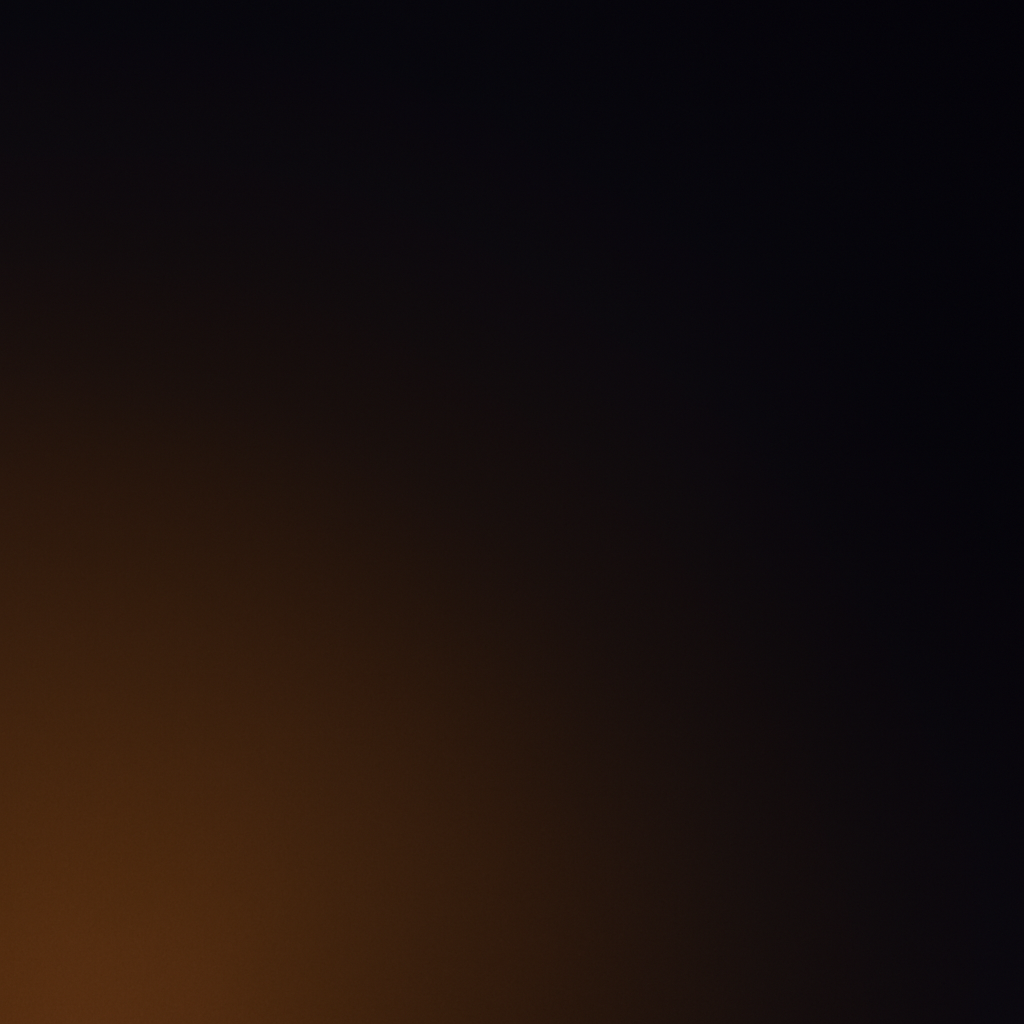
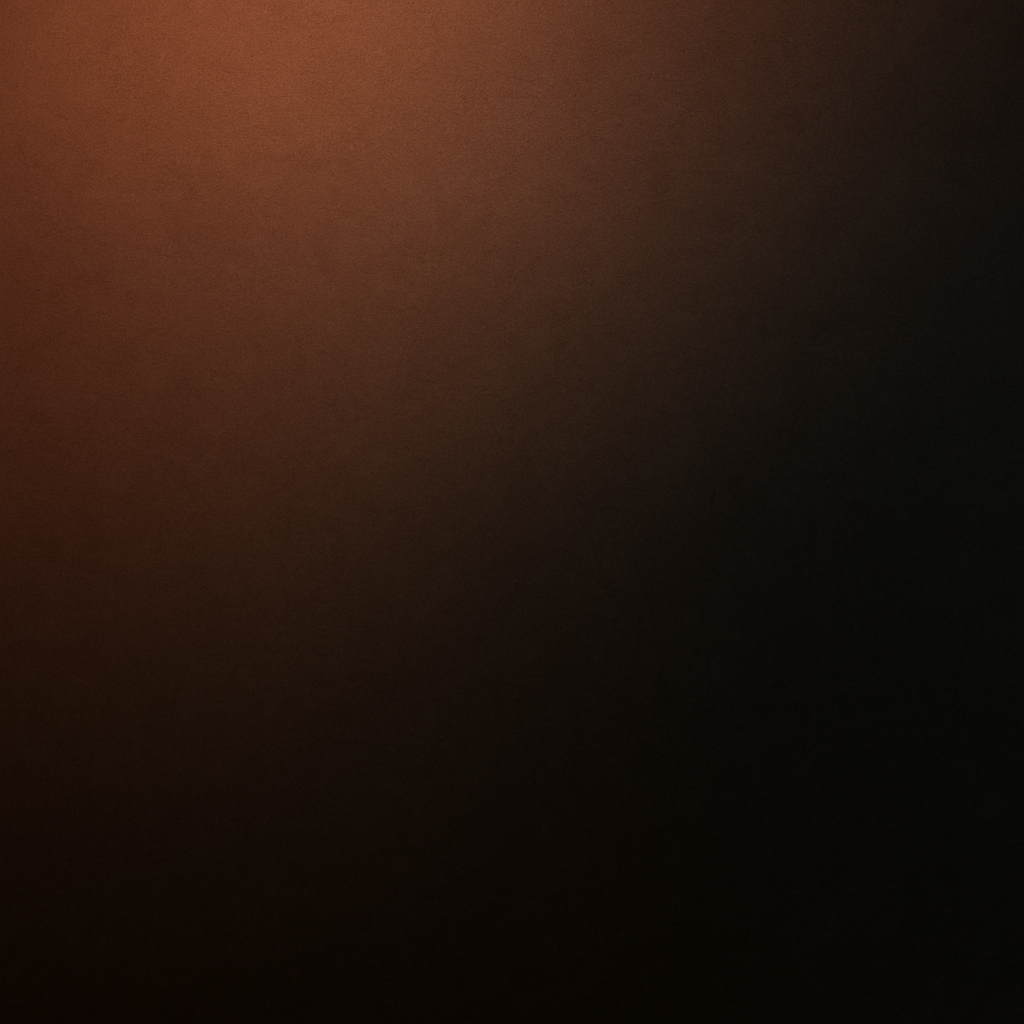
Polishing UI.

diff --git a/competition.html b/competition.html
@@ -69,7 +69,7 @@ Donate to remove backlink form the site
 <!--    <div class="heading">-->
 <!--      <h2 class="animated fadeInUp">✨ <span style="color:#FFD500;">Wuji (无极)</span> &#45;&#45; <span style="color:#ccc;">Infinity ♾</span></h2>-->
 <h5 class="lead animated fadeIn"
-    style="font-size: 1.6rem; font-weight: 700; color: #fff;
+    style="font-size: 1.8rem; font-weight: 700; color: #fff;
            text-shadow: 0 0 6px rgba(255,255,255,0.6), 0 0 12px rgba(255,255,255,0.4);
            margin-top: 10px;">
   🎯 3 Tracks &nbsp;|&nbsp; 🏆 <strong>13 Awards</strong> &nbsp;|&nbsp; 💰 <strong>$15,000 in Prizes</strong> &nbsp;|&nbsp; 🌐 Embracing Infinity, Exploring the Limits of Vision 🚀
@@ -241,137 +241,132 @@ Donate to remove backlink form the site
     </div>
   </div>
 </section>
-<section id="rules" class="page-section" style="background:  rgb(1,22,39, 0.1); padding: 60px 20px;">
-  <div class="container">
+<section id="rules" class="page-section" style="background: rgb(1,22,39, 0.1); padding: 60px 10px;">
+  <div class="container" style="max-width: 1400px;">
+    <h2 class="text-center animated fadeInUp" style="color:#fff; font-size: 2.8rem; font-weight: 700; letter-spacing: 0.5px;">📈 Scoring Rules</h2>
+    <p class="text-center lead" style="color: #E0E3DA; font-size: 2.0rem; margin-top: 10px; font-weight: 500">Each track will be evaluated by a mix of automated metrics and expert reviews</p>
 
-    <h2 class="text-center animated fadeInUp">📊 Scoring Rules</h2>
-    <p style="color: #eee; font-size: 20px; margin-top: 6px;" class="text-center lead">Each track will be evaluated by a mix of automated metrics and expert reviews:</p>
+    <!-- Rule Box Wrapper -->
+    <div style="background: linear-gradient(135deg, rgba(255,255,255,0.05), rgba(255,255,255,0.015)); padding: 40px 35px; border-radius: 20px; margin-top: 20px; box-shadow: 0 0 20px rgba(255, 255, 255, 0.08); transition: all 0.3s ease-in-out;">
 
-  </div>
-  <head>
-    <style>
-        .ranking-container {
-            max-width: 800px;
-            margin: 20px auto;
-            padding: 20px;
-            font-family: Arial, sans-serif;
-        }
-        table {
-            width: 100%;
-            border-collapse: collapse;
-            margin: 20px 0;
-        }
-        th, td {
-            padding: 12px;
-            border: 1px solid #ddd;
-            text-align: center;
-        }
-        thead {
-            background-color: #333;
-        }
-        tr:nth-child(even) {
-            background-color: #333;
-        }
-        .math {
-            font-size: 1.1em;
-            margin: 15px 0;
-        }
-    </style>
-</head>
-<body>
-    <div  style="color: #eee; font-size: 18px; margin-top: 6px;"  class="ranking-container">
-        <h2>Track 1 Texture Resoration</h2>
-        <ul>
-          <li>Reward participants based on their best-performing solutions</li>
-          <li>For each task, multiple metrics will be announced, including reference-based and no-reference-based metrics</li>
-          <li>Participants' rankings on each metric will be weightedly summed, the weights of each metric will be announced later</li>
-          <li>The final ranking of participants in their task will be determined by the ascending order of these weighted sums</li>
-          <li>Suppose E<sub>1</sub>, E<sub>2</sub>,..., E<sub>N</sub> are ranks that have been sorted from the smallest value to the largest value. The final score is:
-            <div class="math">
-              G = Σ<sub>i=1</sub><sup>N</sup> ω<sub>i</sub>·S(E<sub>i</sub>)
-            </div>
-            The ω<sub>i</sub> and S(E<sub>i</sub>) for different i are as follows:
+      <!-- Track 1 -->
+      <div class="track1" style="margin-bottom: 30px;">
+        <h3 style="color: #fff; font-size: 2rem; margin-bottom: 20px; font-weight: 800; display: flex; align-items: center; gap: 12px;">
+          <img src="./assets_wuji/images/track1_logo.png" style="height: 28px;"> Track 1: Texture Restoration
+        </h3>
+        <ul style="color: #ddd; font-size: 1.8rem; margin-left: 22px; line-height: 1.9;">
+          <li>Reward participants based on their best-performing solutions.</li>
+          <li>For each task, multiple metrics will be announced, including reference-based and no-reference-based metrics.</li>
+          <li>Participants' rankings on each metric will be weighted; the weights will be announced later.</li>
+          <li>The final ranking is determined by the ascending order of weighted sums. Suppose E<sub>1</sub>, E<sub>2</sub>, ..., E<sub>N</sub> are ranks sorted from smallest to largest. The final score is:
+            <span class="math" style="font-size: 1.8rem; font-weight: bold; color: #ffd86b;">G = Σ<sub>i=1</sub><sup>N</sup> ω<sub>i</sub>·S(E<sub>i</sub>)</span>
           </li>
         </ul>
-        
-        <table>
-            <thead>
-                <tr>
-                    <th>Index  i</th>
-                    <th>Weights  ω<sub>i</sub></th>
-                    <th>Sorted Rank  E<sub>i</sub></th>
-                    <th>Score  S(E<sub>i</sub>)</th>
-                </tr>
+        <div class="table-responsive" style="max-width: 900px; margin: 16px auto 0;">
+          <table style="width: 100%; border-collapse: separate; border-spacing: 0; font-size: 1.8rem; color: #eee; border: 2px solid #555; border-radius: 10px; overflow: hidden;">
+            <thead style="background-color: #2b2b2b;">
+              <tr>
+                  <th style="background-color: #1e1e1e; color: #ffc107; padding: 14px; font-size: 1.8rem; width: 220px; border-right: 2px double #444;">Sorted Rank E<sub>i</sub></th>
+                  <td style="padding: 12px; border-right: 2px double #444;">1</td>
+                  <td style="padding: 12px; border-right: 2px double #444;">2</td>
+                  <td style="padding: 12px; border-right: 2px double #444;">3</td>
+                  <td style="padding: 12px; border-right: 2px double #444;">4</td>
+                  <td style="padding: 12px; border-right: 2px double #444;">5</td>
+                  <td style="padding: 12px; border-right: 2px double #444;">6</td>
+                                   <td style="padding: 12px;">7+</td>
+              </tr>
             </thead>
             <tbody>
-                <tr><td>1</td><td>0.6</td><td>1</td><td>5</td></tr>
-                <tr><td>2</td><td>0.3</td><td>2</td><td>4</td></tr>
-                <tr><td>3</td><td>0.1</td><td>3</td><td>3</td></tr>
-                <tr><td>4</td><td>0.1</td><td>4</td><td>2</td></tr>
-                <tr><td>5</td><td>0.1</td><td>5</td><td>1</td></tr>
-                <tr><td>--</td><td>--</td><td>6+</td><td>0</td></tr>
+              <tr style="background-color: #111;">
+                <th style="background-color: #1e1e1e; color: #ffc107; padding: 14px; font-size: 1.8rem; border-top: 2px double #444; border-right: 2px double #444;">Score S(E<sub>i</sub>)</th>
+                <td style="padding: 12px; border-top: 2px double #444; border-right: 2px double #444;">5</td>
+                <td style="padding: 12px; border-top: 2px double #444; border-right: 2px double #444;">4</td>
+                <td style="padding: 12px; border-top: 2px double #444; border-right: 2px double #444;">3</td>
+                <td style="padding: 12px; border-top: 2px double #444; border-right: 2px double #444;">2</td>
+                <td style="padding: 12px; border-top: 2px double #444; border-right: 2px double #444;">1</td>
+                  <td style="padding: 12px; border-top: 2px double #444; border-right: 2px double #444;">1</td>
+                <td style="padding: 12px; border-top: 2px double #444;">0</td>
+              </tr>
             </tbody>
-        </table>
+          </table>
+        </div>
+      </div>
 
-        <h2>Tracks 2 Dataset & Benchmark</h2>
-        <ul>
-          <li>A weighted ranking rule based on expert review scores for the contribution of dataset</li>
-          <li>Datasets that demonstrate strong generalization performance on real-world data are highly recommended</li>
-        </ul>
-        
-        <h2>Tracks 3 Open-Spike Research</h2>
-        <ul>
-          <li>A weighted ranking rule based on expert review scores for the innovation of research proposals</li>
-          <li>Proposals that can inspire spike vision to explore broader application scenarios and further stimulate the development of subsequent tasks are highly recommended</li>
-        </ul>
+      <!-- Divider -->
+      <hr style="border-top: 2px solid rgba(255,255,255,0.2); margin: 40px 0;">
+
+      <!-- Track 2 & Track 3 -->
+      <div class="row" style="gap: 20px;">
+        <div class="col-md-6" style="padding: 0 20px;">
+          <h3 style="color: #fff; font-size: 2rem; margin-bottom: 20px; font-weight: 800; display: flex; align-items: center; gap: 12px;">
+            <img src="./assets_wuji/images/track2_logo.png" style="height: 26px;"> Track 2: Dataset & Benchmark
+          </h3>
+          <ul style="color: #ddd; font-size: 1.8rem; margin-left: 22px; line-height: 1.9;">
+            <li>A weighted ranking rule based on expert review scores for dataset contribution.</li>
+            <li>Datasets demonstrating strong generalization on real-world data are highly recommended.</li>
+          </ul>
+        </div>
+        <div class="col-md-6" style="padding: 0 20px;">
+          <h3 style="color: #fff; font-size: 2rem; margin-bottom: 20px; font-weight: 800; display: flex; align-items: center; gap: 12px;">
+            <img src="./assets_wuji/images/track3_logo.png" style="height: 26px;"> Track 3: Open-Spike Research
+          </h3>
+          <ul style="color: #ddd; font-size: 1.8rem; margin-left: 22px; line-height: 1.9;">
+            <li>A weighted ranking rule based on expert scores for research innovation.</li>
+            <li>Proposals that inspire spike vision to explore new applications and stimulate future tasks are highly recommended.</li>
+          </ul>
+        </div>
+      </div>
+
     </div>
-</body>
+  </div>
 </section>
 
 <section id="aboutUs" class="page-section" style="background:  rgb(1,22,39, 0.1);">
-  <div class="container text-center">
-    <h2 class="animated fadeInUp">Organizers</h2>
-    <div class="row" style="margin-top: 40px;">
-      <div class="col-md-3 col-sm-6">
-        <img src="./assets_wuji/images/organizers/yjzheng2.jpeg" class="img-circle" alt="Organizer 1">
-         <h4 style="margin-top: 15px; font-weight: 600;">Dr. Yajing Zheng</h4>
-        <p>Peking University </p>
-        <div class="organizer-links">
-          <a href="https://zyj061.github.io" target="_blank" title="Homepage"><i class="fa fa-home"></i></a>
-          <a href="https://scholar.google.com/citations?user=_bUM0NcAAAAJ&hl=en" target="_blank" title="Google Scholar"><i class="fa fa-graduation-cap"></i></a>
-          <a href="mailto:yj.zheng@pku.edu.cn" title="Email"><i class="fa fa-envelope"></i></a>
-          <a href="https://github.com/zyj061" target="_blank" title="GitHub"><i class="fa fa-github"></i></a>
+  <div class="container text-center" style="max-width: 1400px;">
+    <div style="background: linear-gradient(135deg, rgba(255,255,255,0.05), rgba(255,255,255,0.015)); padding: 20px 30px; border-radius: 20px; margin-top: 10px; box-shadow: 0 0 18px rgba(255, 255, 255, 0.06);">
+      <h2 class="animated fadeInUp" style="color: #fff; font-weight: 800; font-size: 2.8rem; margin-bottom: 50px;">🧑🏫🧑💻 Organizers</h2>
+      <div class="row" style="margin-top: 20px;">
+        <div class="col-md-3 col-sm-6">
+          <img src="./assets_wuji/images/organizers/yjzheng2.jpeg" class="img-circle" alt="Organizer 1">
+          <h4 style="margin-top: 15px; font-weight: 600; color: #fff;">Dr. Yajing Zheng</h4>
+          <p style="font-weight: bold; color: #ffd86b;">Peking University</p>
+          <div class="organizer-links">
+            <a href="https://zyj061.github.io" target="_blank" title="Homepage"><i class="fa fa-home"></i></a>
+            <a href="https://scholar.google.com/citations?user=_bUM0NcAAAAJ&hl=en" target="_blank" title="Google Scholar"><i class="fa fa-graduation-cap"></i></a>
+            <a href="mailto:yj.zheng@pku.edu.cn" title="Email"><i class="fa fa-envelope"></i></a>
+            <a href="https://github.com/zyj061" target="_blank" title="GitHub"><i class="fa fa-github"></i></a>
+          </div>
         </div>
-      </div>
-      <div class="col-md-3 col-sm-6">
-        <img src="./assets_wuji/images/organizers/htj.jpeg" class="img-circle" alt="Organizer 2">
-         <h4 style="margin-top: 15px; font-weight: 600;">Prof. Tiejun Huang</h4>
-        <p>Peking University</p>
-        <div class="organizer-links">
-          <a href="https://cs.pku.edu.cn/info/1215/1980.htm" target="_blank" title="Homepage"><i class="fa fa-home"></i></a>
-          <a href="https://scholar.google.com/citations?user=knvEK4AAAAAJ&hl=zh-CN&oi=ao" target="_blank" title="Google Scholar"><i class="fa fa-graduation-cap"></i></a>
-          <a href="mailto:tjhuang@pku.edu.cn" title="Email"><i class="fa fa-envelope"></i></a>
+        <div class="col-md-3 col-sm-6">
+          <img src="./assets_wuji/images/organizers/htj.jpeg" class="img-circle" alt="Organizer 2">
+          <h4 style="margin-top: 15px; font-weight: 600; color: #fff;">Prof. Tiejun Huang</h4>
+          <p style="font-weight: bold; color: #ffd86b;">Peking University</p>
+          <div class="organizer-links">
+            <a href="https://cs.pku.edu.cn/info/1215/1980.htm" target="_blank" title="Homepage"><i class="fa fa-home"></i></a>
+            <a href="https://scholar.google.com/citations?user=knvEK4AAAAAJ&hl=zh-CN&oi=ao" target="_blank" title="Google Scholar"><i class="fa fa-graduation-cap"></i></a>
+            <a href="mailto:tjhuang@pku.edu.cn" title="Email"><i class="fa fa-envelope"></i></a>
+          </div>
         </div>
-      </div>
-      <div class="col-md-3 col-sm-6">
-        <img src="./assets_wuji/images/organizers/zr3.png" class="img-circle" alt="Organizer 3" >
-         <h4 style="margin-top: 15px; font-weight: 600;">Rui Zhao</h4>
-        <p>Peking University</p>
-        <div class="organizer-links">
-          <a href="https://ruizhao26.github.io/" target="_blank" title="Homepage"><i class="fa fa-home"></i></a>
-          <a href="https://scholar.google.com/citations?user=Ju7_T9cAAAAJ&hl=En" target="_blank" title="Google Scholar"><i class="fa fa-graduation-cap"></i></a>
-          <a href="mailto:ruizhao26@gmail.com" title="Email"><i class="fa fa-envelope"></i></a>
-          <a href="https://github.com/ruizhao26" target="_blank" title="GitHub"><i class="fa fa-github"></i></a>
+        <div class="col-md-3 col-sm-6">
+          <img src="./assets_wuji/images/organizers/zr3.png" class="img-circle" alt="Organizer 3">
+          <h4 style="margin-top: 15px; font-weight: 600; color: #fff;">Rui Zhao</h4>
+          <p style="font-weight: bold; color: #ffd86b;">Peking University</p>
+          <div class="organizer-links">
+            <a href="https://ruizhao26.github.io/" target="_blank" title="Homepage"><i class="fa fa-home"></i></a>
+            <a href="https://scholar.google.com/citations?user=Ju7_T9cAAAAJ&hl=En" target="_blank" title="Google Scholar"><i class="fa fa-graduation-cap"></i></a>
+            <a href="mailto:ruizhao26@gmail.com" title="Email"><i class="fa fa-envelope"></i></a>
+            <a href="https://github.com/ruizhao26" target="_blank" title="GitHub"><i class="fa fa-github"></i></a>
+          </div>
         </div>
-      </div>
-      <div class="col-md-3 col-sm-6">
-        <img src="./assets_wuji/images/organizers/rodrigo.jpeg" class="img-circle" alt="Organizer 4">
-         <h4 style="margin-top: 15px; font-weight: 600;">Dr. Rodrigo Gantier</h4>
-        <p>Peking University</p>
-        <div class="organizer-links">
-          <a href="https://scholar.google.com/citations?hl=en&user=f1yOcFcAAAAJ" target="_blank" title="Google Scholar"><i class="fa fa-graduation-cap"></i></a>
-          <a href="mailto:Rodrigo.gantier.c@gmail.com" title="Email"><i class="fa fa-envelope"></i></a>
-          <a href="https://github.com/RodrigoGantier" target="_blank" title="GitHub"><i class="fa fa-github"></i></a>
+        <div class="col-md-3 col-sm-6">
+          <img src="./assets_wuji/images/organizers/rodrigo.jpeg" class="img-circle" alt="Organizer 4">
+          <h4 style="margin-top: 15px; font-weight: 600; color: #fff;">Dr. Rodrigo Gantier</h4>
+          <p style="font-weight: bold; color: #ffd86b;">Peking University</p>
+          <div class="organizer-links">
+            <a href="https://scholar.google.com/citations?hl=en&user=f1yOcFcAAAAJ" target="_blank" title="Google Scholar"><i class="fa fa-graduation-cap"></i></a>
+            <a href="mailto:Rodrigo.gantier.c@gmail.com" title="Email"><i class="fa fa-envelope"></i></a>
+            <a href="https://github.com/RodrigoGantier" target="_blank" title="GitHub"><i class="fa fa-github"></i></a>
+          </div>
         </div>
       </div>
     </div>
@@ -383,44 +378,24 @@ Donate to remove backlink form the site
 <div class="container">
   <div class="row justify-content-center align-items-center" style="margin: 1px 0;">
     <div class="col-sm-4 col-4 text-center">
-      <img class="org-logo" src="/assets_wuji/images/IJCAI2025_Montreal_Logo_BN-1.png" alt="IJCAI 2025" style="height: 40px;">
-      <p style="color: #ccc; font-size: 18px; margin-top: 6px;">IJCAI 2025 Challenges</p>
+      <img class="org-logo" src="/assets_wuji/images/IJCAI2025_Montreal_Logo_BN-1.png" alt="IJCAI 2025" style="height: 50px;">
+      <p style="color: #ccc; font-size: 15px; margin-top: 6px; font-weight: bold">IJCAI 2025 Challenges</p>
     </div>
     <div class="col-sm-4 col-4 text-center">
-      <img class="org-logo" src="/assets_wuji/images/organizers/PKU_red.png" alt="Peking University" style="height: 40px;">
-      <p style="color: #ccc; font-size: 18px; margin-top: 6px;">Peking University</p>
+      <img class="org-logo" src="/assets_wuji/images/organizers/PKU_red.png" alt="Peking University" style="height: 50px;">
+      <p style="color: #ccc; font-size: 15px; margin-top: 6px; font-weight: bold">Peking University</p>
     </div>
     <div class="col-sm-4 col-4 text-center">
-      <img class="org-logo" src="/assets_wuji/images/organizers/openI-logo.svg" alt="OpenI" style="height: 40px;">
-      <p style="color: #ccc; font-size: 18px; margin-top: 6px;">OpenI</p>
+      <img class="org-logo" src="/assets_wuji/images/organizers/openI-logo.svg" alt="OpenI" style="height: 50px;">
+      <p style="color: #ccc; font-size: 15px; margin-top: 6px; font-weight: bold">OpenI Community</p>
     </div>
   </div>
+  <div class="row">
+      <div class="col-sm-12 text-center"> Copyright 2025 | All Rights Reserved -       <a href="https://github.com/Zyj061/SpikeCV"><i class="fa fa-github"></i> SpikeCV</a>
+ </div>
 </div>
-
-<!--    &lt;!&ndash; 社交媒体 &ndash;&gt;-->
-<!--    <div class="social text-center" style="margin-top: 10px;">-->
-<!--&lt;!&ndash;      <a href="#"><i class="fa fa-twitter"></i></a>&ndash;&gt;-->
-<!--&lt;!&ndash;      <a href="#"><i class="fa fa-facebook"></i></a>&ndash;&gt;-->
-<!--&lt;!&ndash;      <a href="#"><i class="fa fa-dribbble"></i></a>&ndash;&gt;-->
-<!--&lt;!&ndash;      <a href="#"><i class="fa fa-flickr"></i></a>&ndash;&gt;-->
-<!--      <a href="#"><i class="fa fa-github"></i></a>-->
-<!--    </div>-->
-
-<!--    <div class="clear"></div>-->
-<!--  </div>-->
 </footer>
 
-<!--/.page-section-->
-<section class="copyright">
-  <div class="container">
-    <div class="row">
-      <div class="col-sm-12 text-center"> Copyright 2025 | All Rights Reserved -       <a href="#"><i class="fa fa-github"></i> SpikeCV</a>
- </div>
-
-    </div>
-    <!-- / .row --> 
-  </div>
-</section>
 <a href="#top" class="topHome"><i class="fa fa-chevron-up fa-2x"></i></a>
 
 
@@ -519,6 +494,16 @@ Donate to remove backlink form the site
       modal.style.display = "none";
     }
   });
+</script>
+<script>
+  // 简单检测 IE 浏览器（IE 11 及更早）
+  function isOldIE() {
+    return /MSIE \d|Trident.*rv:/.test(navigator.userAgent);
+  }
+
+  if (isOldIE()) {
+    alert("⚠ 您正在使用 Internet Explorer 浏览器。\n该页面可能无法正常显示。\n建议使用 Chrome、Firefox 或 Edge 获得更好的体验。");
+  }
 </script>
 
 </body>

diff --git a/assets_wuji/css/styles.css b/assets_wuji/css/styles.css
@@ -339,7 +339,7 @@ h2, .h2 {
 	border-color: rgba(255, 255, 255, 0.45);
 }
 #overlay {
-	background: rgba(0, 0, 0, 0.56) url(../images/img1.jpg) top left repeat;
+	background: rgba(0, 0, 0, 0.56) url(../images/img1.png) top left repeat;
 	position: fixed;
 	top: 0px;
 	width: 100%;
@@ -1182,7 +1182,7 @@ color: #FED400;
   justify-content: center;
   gap: 40px;
   flex-wrap: wrap;
-	margin-top: 10px;
+	margin-top: 1px;
 }
 
 /* Divider line */

diff --git a/assets_wuji/js/custom.js b/assets_wuji/js/custom.js
@@ -100,6 +100,9 @@ $('document').ready(function () {
 	 $.backstretch([
       "/assets_wuji/images/img1.png"
          , "/assets_wuji/images/img2.png"
+                  , "/assets_wuji/images/img3.png"
+         , "/assets_wuji/images/img4.png"
+         // , "/assets_wuji/images/img5.png"
   ], {duration: 3000, fade: 1250});
   
     customScripts.init();
